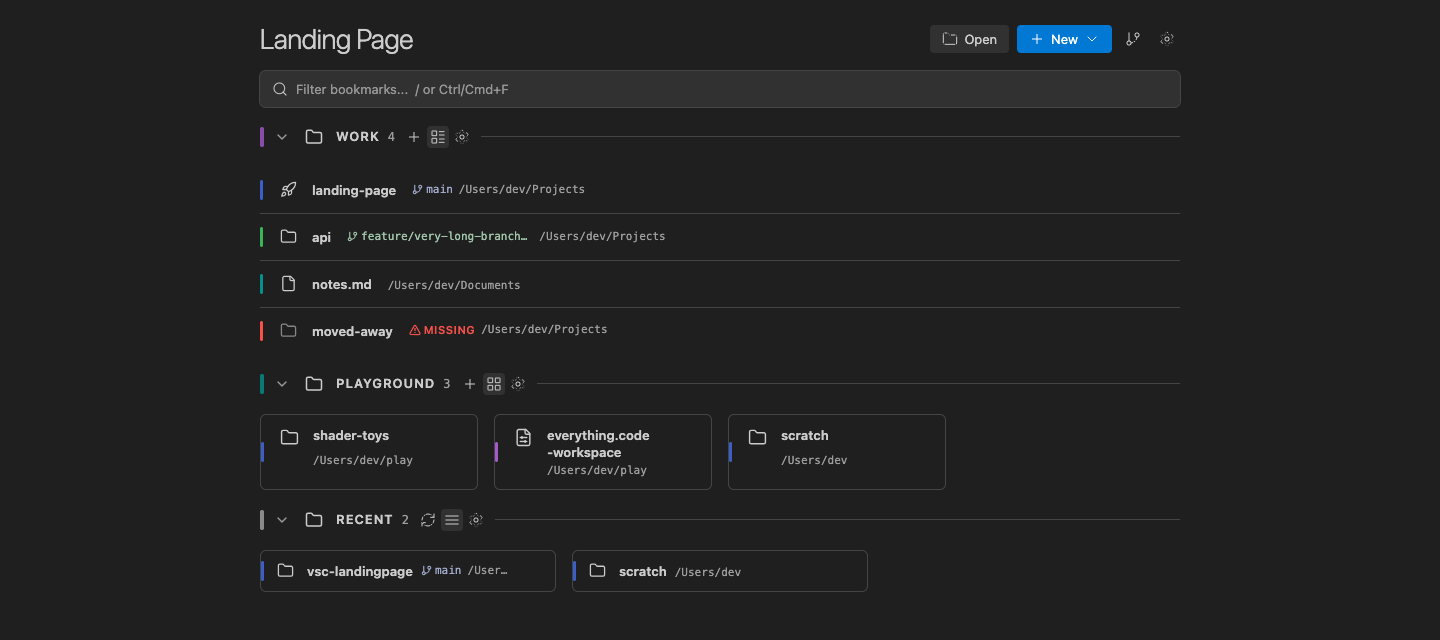
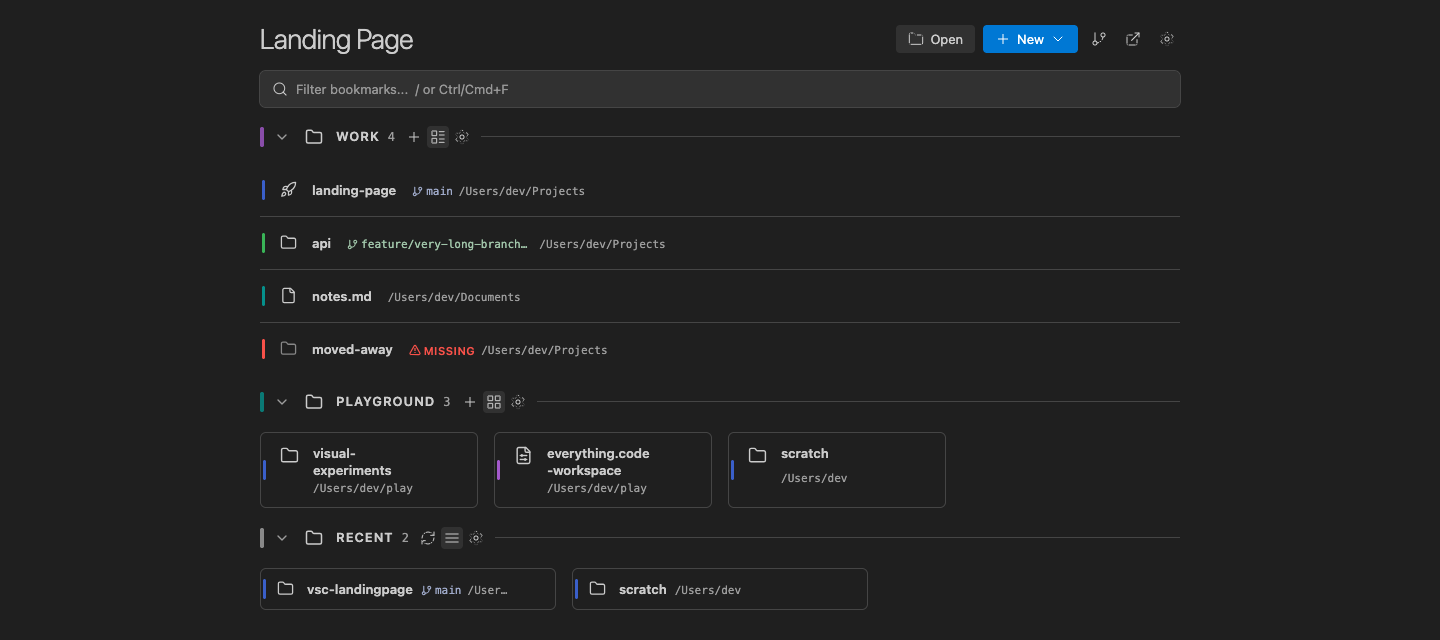
Clean repository and link the live demo

diff --git a/src/LandingPage/communication.ts b/src/LandingPage/communication.ts
@@ -14,7 +14,7 @@ import { moveBookmark, moveGroup, moveToGroup } from './bookmark-moves';
 import { createDirectory } from './bookmark-creation';
 import { copyPath } from './clipboard-path';
 import { cloneRepository } from './clone-repository';
-import { openLandingPageRepository } from './open-repository';
+import { openLandingPageLiveDemo } from './open-live-demo';
 
 export { registerExtensionContext } from './model-storage';
 
@@ -72,7 +72,7 @@ export async function handleMessageFromWebview(message:MessageFromWebview,webvie
 {
   // Refresh MRU only for commands that resolve or render model items.
   const needsMru = message.command!=='openSettings'
-                && message.command!=='openRepository'
+                && message.command!=='openLiveDemo'
                 && message.command!=='cloneRepository'
                 && message.command!=='openFolder';
   if (needsMru) {await populateVscMru(sharedModel, recentShown);}
@@ -274,8 +274,8 @@ export async function handleMessageFromWebview(message:MessageFromWebview,webvie
     case 'openSettings':
       vscode.commands.executeCommand('workbench.action.openSettings', 'vsc-landingpage');
       break;
-    case 'openRepository':
-      await openLandingPageRepository();
+    case 'openLiveDemo':
+      await openLandingPageLiveDemo();
       break;
     case 'cloneRepository':
       await cloneRepository(message.url);

diff --git a/src/LandingPage/webview/main.tsx b/src/LandingPage/webview/main.tsx
@@ -556,7 +556,7 @@ function App() {
               and a paste went nowhere. */}
           {popover==='clone' && <form class="popover popover-clone" onSubmit={event => {event.preventDefault(); const url=(event.currentTarget.elements.namedItem('url') as HTMLInputElement).value.trim(); if (url) {setPopover(null); post('cloneRepository',{url});}}}><input name="url" required ref={cloneInput} aria-label="Git repository URL" placeholder="Paste a Git URL"/><button class="btn-secondary">Clone</button></form>}
         </div>
-        <button class="btn-ghost btn-small" title="Open Landing Page on GitHub" aria-label="Open Landing Page on GitHub" onClick={()=>post('openRepository')}><Svg name="github"/></button>
+        <button class="btn-ghost btn-small" title="View live demo" aria-label="View live demo" onClick={()=>post('openLiveDemo')}><Svg name="externalLink"/></button>
         <button class="btn-ghost btn-small" title="Settings" onClick={()=>post('openSettings')}><Svg name="settings"/></button>
       </div></div>
     </header>

diff --git a/src/LandingPage/webview-messages.ts b/src/LandingPage/webview-messages.ts
@@ -3,7 +3,7 @@ import { LandingPageModel } from './LandingPageModel';
 
 export interface MessageFromWebview
 {
-	command:'documentReady'|'rename'|'createBookmark'|'createGroup'|'remove'|'hideRecent'|'restoreHiddenRecents'|'unhideRecent'|'refreshRecents'|'moveGroup'|'open'|'patch'|'openSettings'|'openRepository'|'cloneRepository'|'openFolder'|'moveToGroup'|'createDirectory'|'copyPath'|'moveBookmark';
+	command:'documentReady'|'rename'|'createBookmark'|'createGroup'|'remove'|'hideRecent'|'restoreHiddenRecents'|'unhideRecent'|'refreshRecents'|'moveGroup'|'open'|'patch'|'openSettings'|'openLiveDemo'|'cloneRepository'|'openFolder'|'moveToGroup'|'createDirectory'|'copyPath'|'moveBookmark';
 
   url?:string;
 

diff --git a/src/LandingPage/iconography.ts b/src/LandingPage/iconography.ts
@@ -74,7 +74,7 @@ import svgPin from 'lucide-static/icons/pin.svg?raw';
 import svgPinOff from 'lucide-static/icons/pin-off.svg?raw';
 import svgSearch from 'lucide-static/icons/search.svg?raw';
 import svgFolderOpen from 'lucide-static/icons/folder-open.svg?raw';
-import svgGithub from 'lucide-static/icons/github.svg?raw';
+import svgExternalLink from 'lucide-static/icons/external-link.svg?raw';
 
 /**
  * Strips the fixed 24x24 sizing off a raw Lucide SVG so the CSS controls icon size.
@@ -182,6 +182,6 @@ export const icons=
   search : icon(svgSearch),
   folderOpen : icon(svgFolderOpen),
   folderGit : icon(svgFolderGit2),
-  github : icon(svgGithub)
+  externalLink : icon(svgExternalLink)
 
 };

diff --git a/e2e/menus.spec.ts b/e2e/menus.spec.ts
@@ -29,10 +29,10 @@ test('the confirmation refuses a double-click and accepts a deliberate one', asy
   await expectConfirmationArms(page);
 });
 
-test('the header opens the GitHub repository through the host', async ({ page }) => {
+test('the header opens the live demo through the host', async ({ page }) => {
   await openBoard(page);
-  await page.getByRole('button', { name: 'Open Landing Page on GitHub' }).click();
-  expect(await postedCount(page, 'openRepository')).toBe(1);
+  await page.getByRole('button', { name: 'View live demo' }).click();
+  expect(await postedCount(page, 'openLiveDemo')).toBe(1);
 });
 
 test('the New menu leaves bookmark selection to a group', async ({ page }) => {

diff --git a/src/LandingPage/open-live-demo.ts b/src/LandingPage/open-live-demo.ts
@@ -1,0 +1,10 @@
+import * as vscode from 'vscode';
+
+const LANDING_PAGE_LIVE_DEMO_URL = 'https://vsc-landingpage-harness.vercel.app/';
+
+/** Opens the live Landing Page demo in the user's external browser. */
+export async function openLandingPageLiveDemo():Promise<void>
+{
+  const opened = await vscode.env.openExternal(vscode.Uri.parse(LANDING_PAGE_LIVE_DEMO_URL));
+  if (!opened) {vscode.window.showWarningMessage('Could not open the Landing Page live demo.');}
+}

diff --git a/README.md b/README.md
@@ -4,7 +4,7 @@ Landing Page is a customizable VS Code start page for bookmark groups and recent
 
 ![The board: two user groups in list and grid layout, a missing target marked, and Recent below](doc/img/landing-page-dark.png)
 
-[View the project on GitHub](https://github.com/Durellg/vsc-landingpage).
+[View the live demo](https://vsc-landingpage-harness.vercel.app/).
 
 A fork of [René Bühling's Landing Page](https://github.com/renebuehling/vsc-landingpage), MIT licensed.
 
@@ -16,7 +16,7 @@ A fork of [René Bühling's Landing Page](https://github.com/renebuehling/vsc-la
 - Use a group's **Add** button to create folder, file, or workspace bookmarks in that group.
 - **Folder on disk** in the page's **New** menu creates and opens a folder without adding a bookmark.
 - Click a bookmark to open it, or `Ctrl`/`Cmd`+click to open a folder or workspace in a new window.
-- Use the GitHub icon in the header to open this repository.
+- Use the external-link icon in the header to view the live demo.
 
 ## Organize bookmarks
 

diff --git a/AGENTS.md b/AGENTS.md
@@ -33,6 +33,7 @@ Put dialogs, filesystem access, clipboard access, VS Code commands, persistence,
 | `group-destination.ts` | Choose a destination group |
 | `clipboard-path.ts` | Quote and copy bookmark paths |
 | `clone-repository.ts` | Clone repositories |
+| `open-live-demo.ts` | Open the hosted live demo |
 | `uri-name-parts.ts` | Split URI labels and extensions |
 
 Keep `communication.ts` as a dispatcher. Put new host behavior in the module that answers the relevant question.
